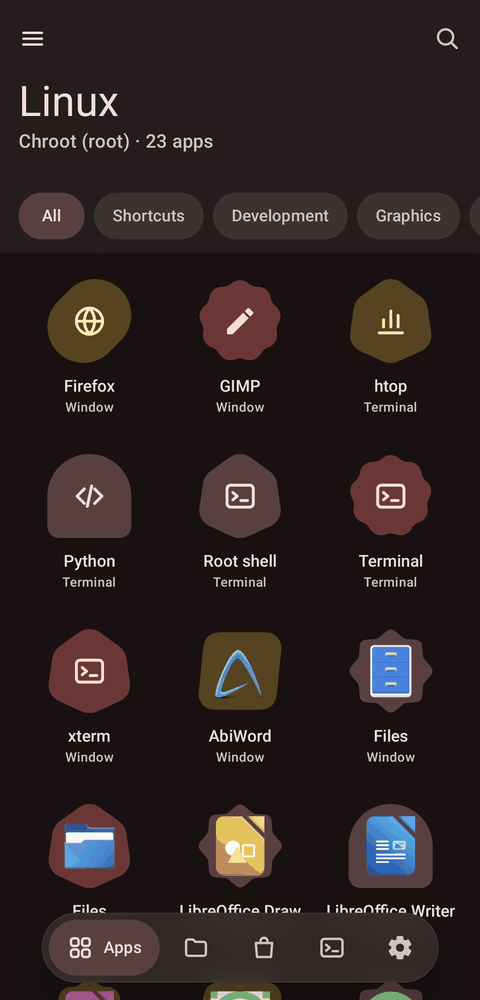
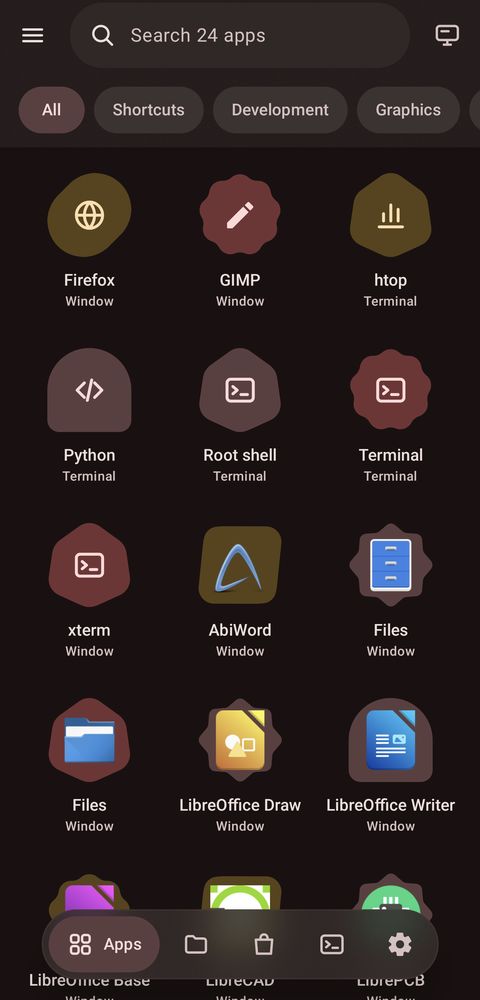
README: the desktop and the search pill
A highlights row for the desktop, search, and Files with the task
manager; the launcher screenshot with the new bar; the desktop in Status.

diff --git a/README.md b/README.md
@@ -69,13 +69,34 @@ cast Linux apps to a TV.
 
 </td>
 </tr>
+<tr>
+<td valign="top">
+
+**🖥 A desktop, too** *(new)*<br>
+One tap for a whole Linux desktop: windows you move and snap, a Material dock and Start menu,
+your wallpaper and colors.
+
+</td>
+<td valign="top">
+
+**🔍 Find any app**<br>
+Android's own search pill on top of your Linux apps, with full-screen results as you type.
+
+</td>
+<td valign="top">
+
+**📁 Files and tasks**<br>
+A file manager across Android and Linux, and a task manager with live CPU and memory per app.
+
+</td>
+</tr>
 </table>
 
 ## Screenshots
 
 <table>
 <tr>
-<td align="center" width="25%"><img src="docs/screenshots/apps.png" width="200" alt="Your Linux apps, as a launcher"><br><sub>Your Linux apps, as a launcher</sub></td>
+<td align="center" width="25%"><img src="docs/screenshots/apps.png" width="200" alt="Your Linux apps, as a launcher, with search and the desktop button"><br><sub>Your Linux apps, with search and the desktop</sub></td>
 <td align="center" width="25%"><img src="docs/screenshots/store-flathub.png" width="200" alt="Debian or Flathub, one switch"><br><sub>Debian or Flathub, one switch</sub></td>
 <td align="center" width="25%"><img src="docs/screenshots/store-app.png" width="200" alt="Flathub apps, one tap to install"><br><sub>Flathub apps, one tap to install</sub></td>
 <td align="center" width="25%"><img src="docs/screenshots/panel.png" width="200" alt="The window panel over LibreOffice"><br><sub>The window panel over LibreOffice</sub></td>
@@ -260,6 +281,7 @@ makes).
 | GPU acceleration (Turnip + Zink) in PRoot mode | ✅ Works on Adreno 740 |
 | Chroot mode with root | ✅ Works; GPU in chroot mode is new |
 | Flathub apps (install from the Store, launch, GPU) | ✅ Works in PRoot and chroot mode |
+| Desktop (xfwm4, dock, Start menu, wallpaper) | 🧪 New; first runs on a Snapdragon 8 Gen 2 in chroot mode |
 | Material You theming, live dark mode (GTK, libadwaita, Qt, LibreOffice, Firefox) | ✅ Works |
 | Live per-app scaling, white pointer, window panel | ✅ Works |
 | Files tab, task manager | 🧪 New |
